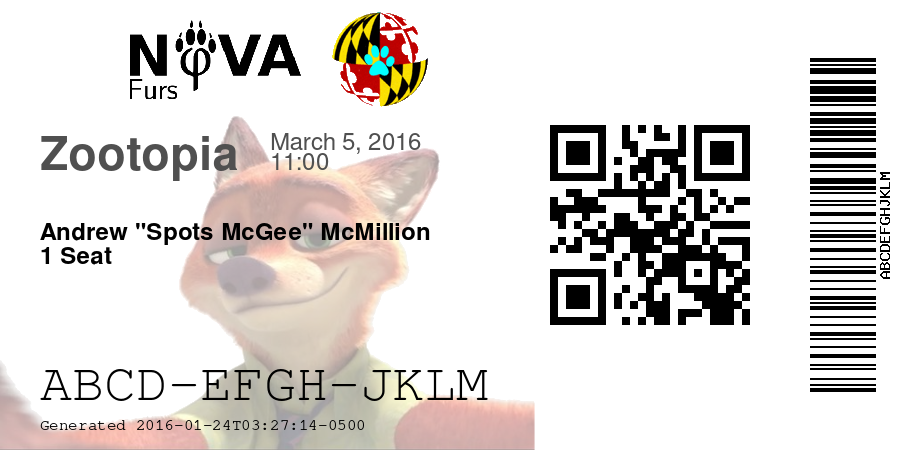
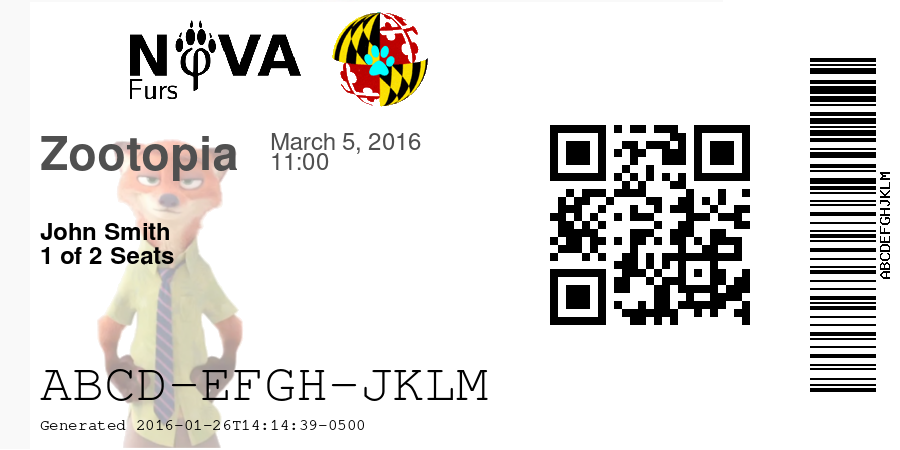
Scanner now ignores dashes in manual input

Changed region(s): [[0.0, 0.2489, 0.6222, 1.0], [0.5911, 0.28, 0.84, 0.7467]]

diff --git a/routes.py b/routes.py
@@ -89,7 +89,9 @@ def scan(code):
 def manual_scan():
     result, error = None, None
     if request.method == 'POST':
-        result = search_ticket(request.form['input'].upper())
+        query = request.form['input'].upper()
+        query = query.replace('-', '')
+        result = search_ticket(query)
         if result is None:
             error = 'No results for {0}'.format(request.form['input'])
     return render_template('manual.html', result=result, error=error)

diff --git a/php/barcode.php b/php/barcode.php
@@ -43,6 +43,10 @@ function generate_ticket($name, $code, $current=1, $seats=1) {
     return $canvas;
 }
 
-generate_ticket('Andrew \"Spots McGee\" McMillion', 'ABCDEFGHJKLM', 1, 1);
+if ($argc == 6) {
+    generate_ticket($argv[1], $argv[2], $argv[3], $argv[4], $argv[5]);
+} else {
+    echo "Usage: $argv[0] <name> <code> <seat of> <total seats> <output file>\n\n";
+}
 
 ?>
